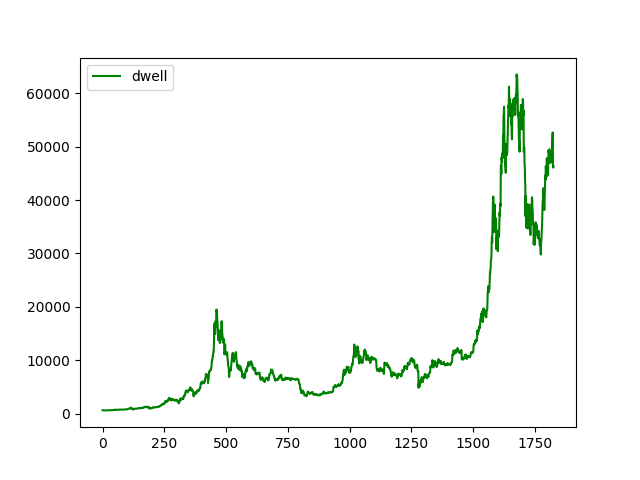
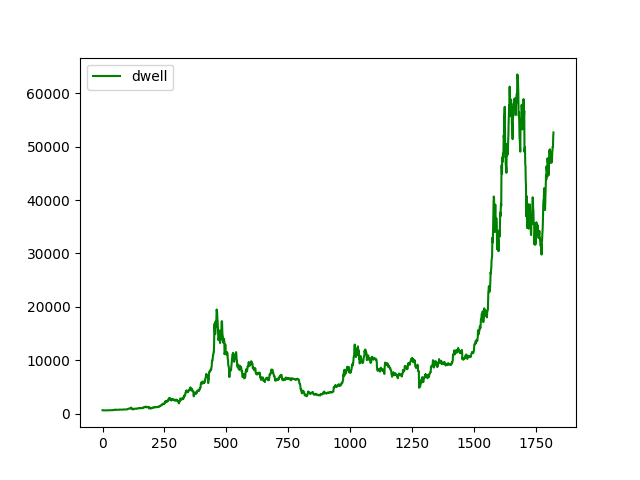
LSTM使用成功

diff --git a/problem1.py b/problem1.py
@@ -1,40 +1,77 @@
-from turtle import color
+import numpy as np
 import matplotlib.pyplot as plt
-import pandas as pd
-
-def predict_value_with_exp_smoothing_3(data,params,T,predict_step):
-    a,r,b=params[0],params[1],params[2]
-    # 初始化S,B,I
-    S=[data[i] if i<=T else 0 for i in range(len(data))]
-    B=[data[i+1]-data[i] if i<=T else 0 for i in range(len(data))]
-    I=[1 if i<=T else 0 for i in range(len(data))]
-    for i in range(T+1,len(data)):
-        S[i]=a*(data[i]/I[i-T])+(1-a)*(S[i-1]+B[i-1])
-        B[i]=r*(S[i]-S[i-1])+(1-r)*B[i-1]
-        I[i]=b*(data[i]/S[i])+(1-b)*I[i-T]
-    len_data=len(data)-1
-    for i in range(1,predict_step+1):
-        data.append((S[len_data]+i*B[len_data])*I[len_data-T+(i%T)])
-    return data
+from keras.models import Sequential
+from keras.layers import Dense
+from keras.layers import LSTM
+import  pandas as pd
+import  os
+from keras.models import Sequential, load_model
+from sklearn.preprocessing import MinMaxScaler
 
 
-
-df=pd.read_csv('../BCHAIN-MKPRU.csv')
-dataset= df.iloc[:,1].tolist()
+dataframe = pd.read_csv('../BCHAIN-MKPRU.csv', usecols=[1], engine='python', skipfooter=3)
+dataset = dataframe.values
 
 plt.figure()
 plt.plot(dataset,'g-',label='dwell')
 plt.legend(loc='best')
 plt.savefig('1.png')
-
-dataset=predict_value_with_exp_smoothing_3(data=dataset,params=[0.2,0.05,0.9],T=365,predict_step=100) 
-plt.figure()
-plt.plot(dataset,'g-',label='dwell',color='red')
-plt.legend(loc='best')
-plt.savefig('2.png')
 plt.close()
 
+# 将整型变为float
+dataset = dataset.astype('float32')
+#归一化 在下一步会讲解
+scaler = MinMaxScaler(feature_range=(0, 1))
+dataset = scaler.fit_transform(dataset)
 
+train_size = int(len(dataset) * 0.9)
+trainlist = dataset[:train_size]
+testlist = dataset[train_size:]
+
+def create_dataset(dataset, timestep):
+#这里的look_back与timestep相同
+    dataX, dataY = [], []
+    for i in range(len(dataset)-timestep-1):
+        a = dataset[i:(i+timestep)]
+        dataX.append(a)
+        dataY.append(dataset[i + timestep])
+    return np.array(dataX),np.array(dataY)
+#训练数据太少 timestep并不能过大
+timestep = 100
+trainX,trainY  = create_dataset(trainlist,timestep)
+testX,testY = create_dataset(testlist,timestep)
+
+trainX = np.reshape(trainX, (trainX.shape[0], trainX.shape[1], 1))
+testX = np.reshape(testX, (testX.shape[0], testX.shape[1] ,1 ))
+
+# create and fit the LSTM network
+model = Sequential()
+model.add(LSTM(4, input_shape=(None,1)))
+model.add(Dense(1))
+model.compile(loss='mean_squared_error', optimizer='adam')
+# model.fit(trainX, trainY, epochs=100, batch_size=100, verbose=2)
+# model.save(os.path.join("DATA","Test" + ".h5"))
+# make predictions
+
+model = load_model(os.path.join("DATA","Test" + ".h5"))
+trainPredict = model.predict(trainX)
+testPredict = model.predict(testX)
+
+#反归一化
+# trainPredict = scaler.inverse_transform(trainPredict)
+# trainY = scaler.inverse_transform(trainY)
+testPredict = scaler.inverse_transform(testPredict).tolist()
+# testY = scaler.inverse_transform(testY)
+
+trainlist=scaler.inverse_transform(trainlist).tolist()
+
+for i in range(len(testPredict)):
+    trainlist.append(testPredict[i])
+
+plt.figure()
+plt.plot(trainlist,'g-',label='dwell',color='red')
+plt.legend(loc='best')
+plt.savefig('2.png')
 
 
 
